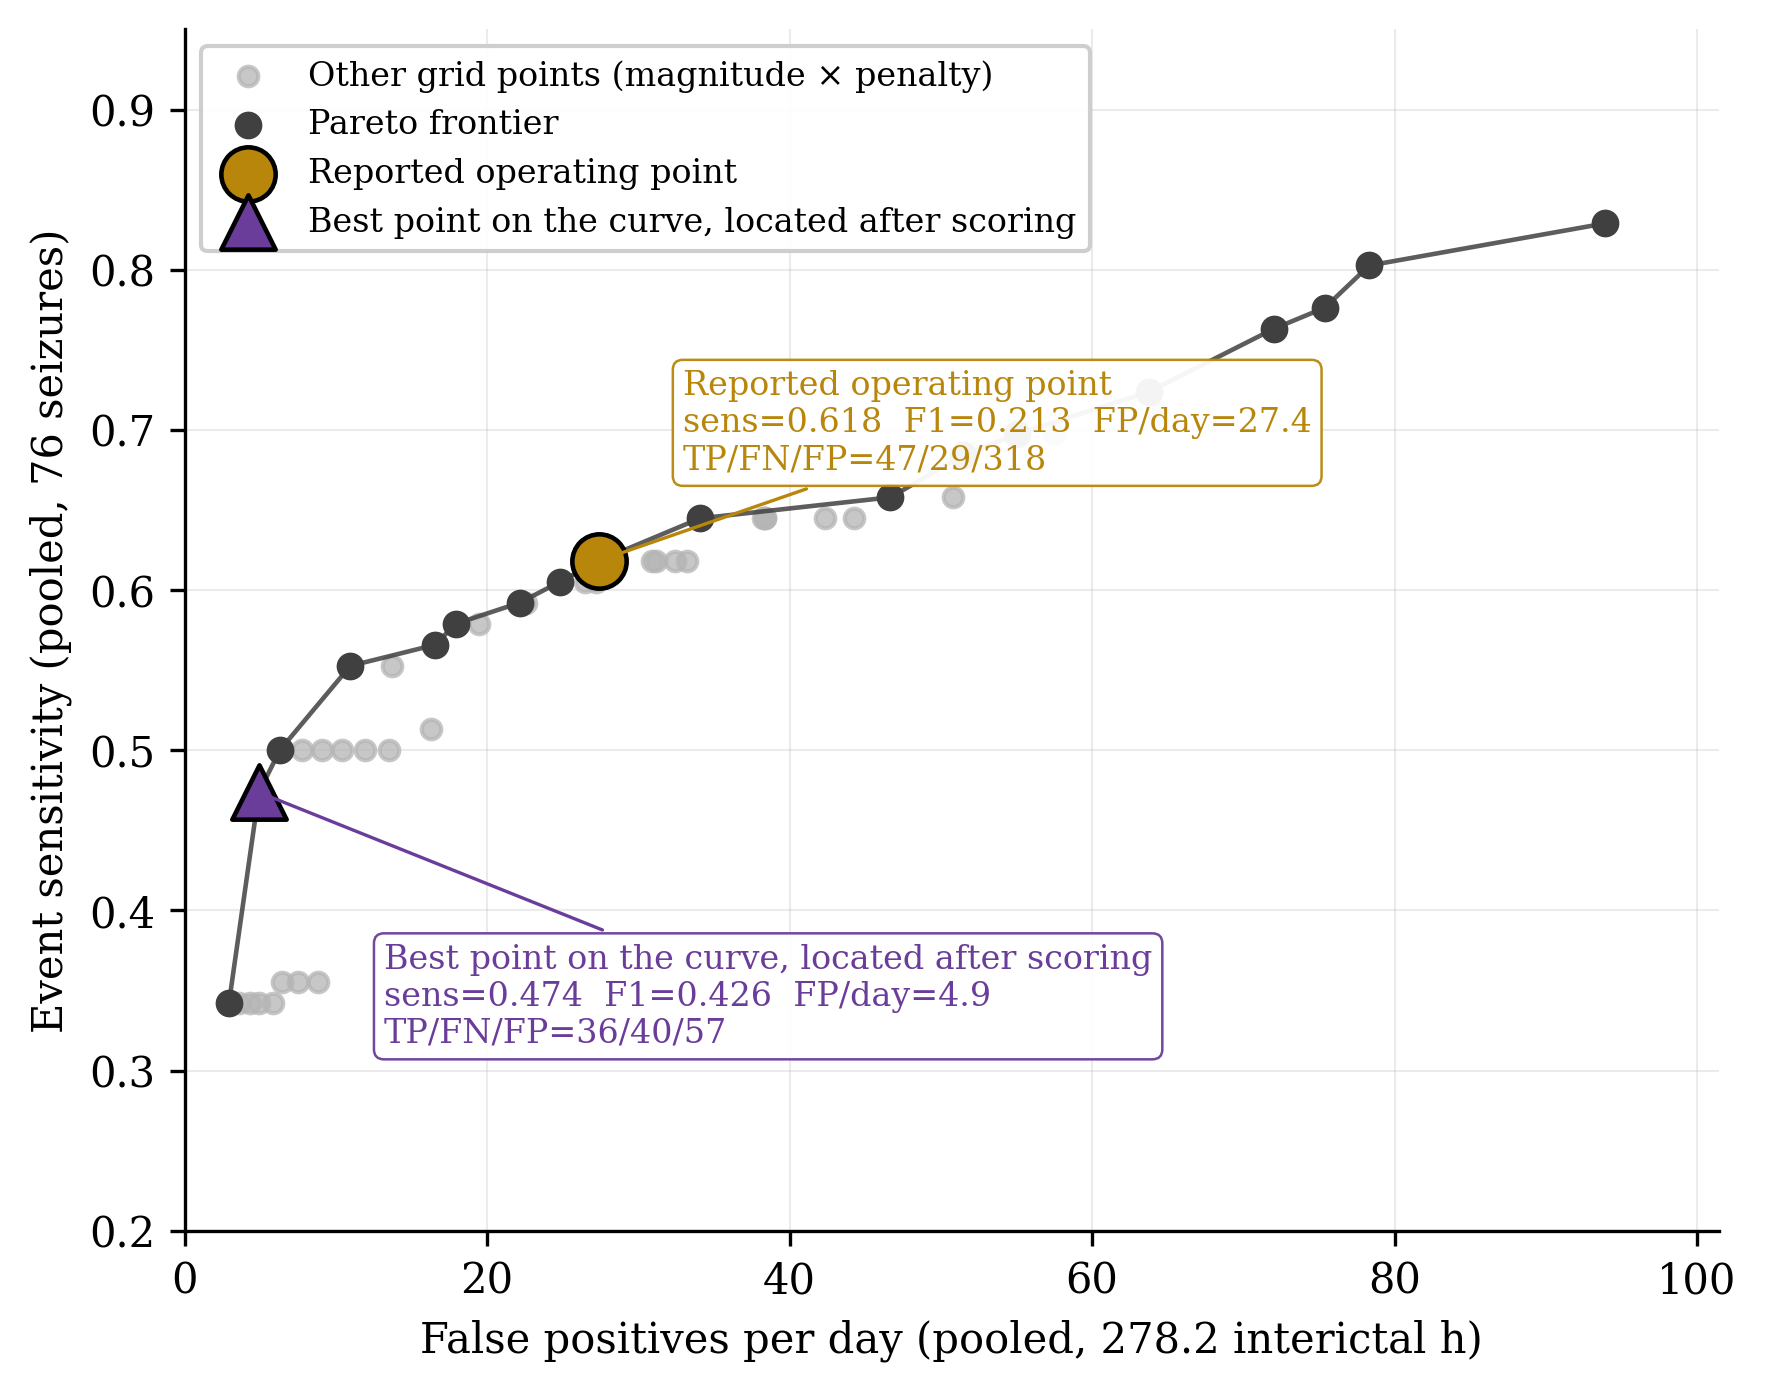
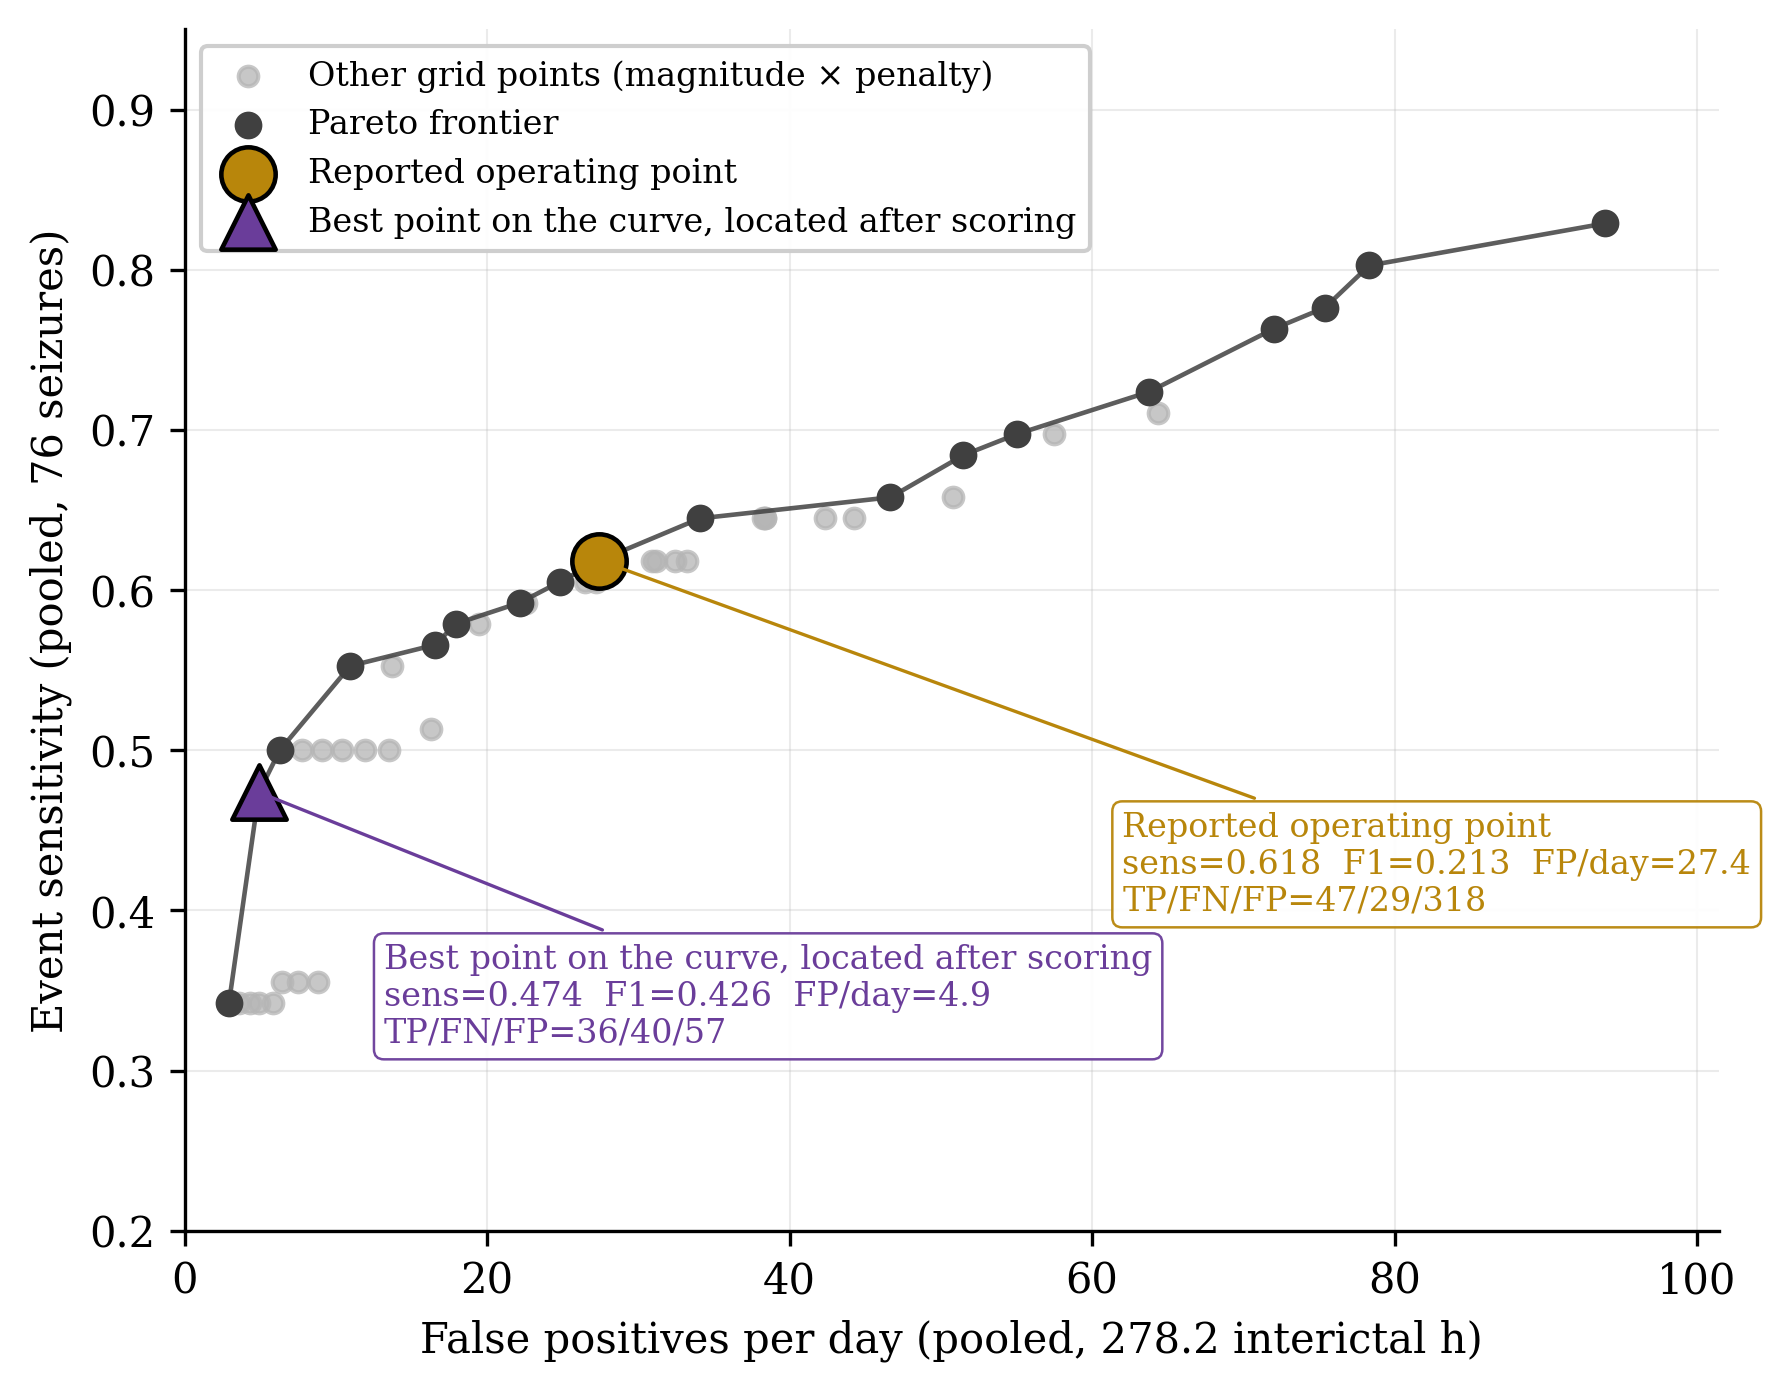
fig3_4 tolerance line + n; fig3_5 box; fig3_3 label size

diff --git a/src/figures/plot_event_level.py b/src/figures/plot_event_level.py
@@ -157,11 +157,17 @@ def plot_e1(df, out_dir):
         ax.scatter([r.fp_per_day], [r.sensitivity], s=170, marker=op["marker"],
                   facecolor=op["color"], edgecolor="black", linewidth=1.1, zorder=6,
                   label=op["label"])
-        xytext = (20, 22) if op["key"] == "headline" else (30, -60)
+        if op["key"] == "headline":
+            # Empty region of the plot (no grid point has fp/day > 45 with sensitivity < 0.6
+            # -- see the printed grid) -- keeps the box off the 50-64 FP/day Pareto points
+            # the previous upper-right placement sat on top of.
+            xytext, textcoords = (62, 0.40), "data"
+        else:
+            xytext, textcoords = (30, -60), "offset points"
         ax.annotate(
             f"{op['label']}\nsens={r.sensitivity:.3f}  F1={f1:.3f}  FP/day={r.fp_per_day:.1f}\n"
             f"TP/FN/FP={int(r.tp)}/{int(r.fn)}/{int(r.fp)}",
-            xy=(r.fp_per_day, r.sensitivity), xytext=xytext, textcoords="offset points",
+            xy=(r.fp_per_day, r.sensitivity), xytext=xytext, textcoords=textcoords,
             fontsize=8, color=op["color"],
             bbox=dict(boxstyle="round,pad=0.3", facecolor="white", edgecolor=op["color"],
                       linewidth=0.6, alpha=0.95),

diff --git a/src/figures/fig3_4_detection_output.py b/src/figures/fig3_4_detection_output.py
@@ -80,7 +80,7 @@ def main():
         ax.set_ylabel(label, fontsize=8.5)
 
     axes[3].plot(t_min, result["fused"], color="#4C72B0", lw=0.8, label="Fused score")
-    axes[3].set_ylabel("Fused\nscore")
+    axes[3].set_ylabel("Fused\nscore", fontsize=8.5)
     axes[3].set_xlabel("Time (minutes)")
 
     for ax in axes:
